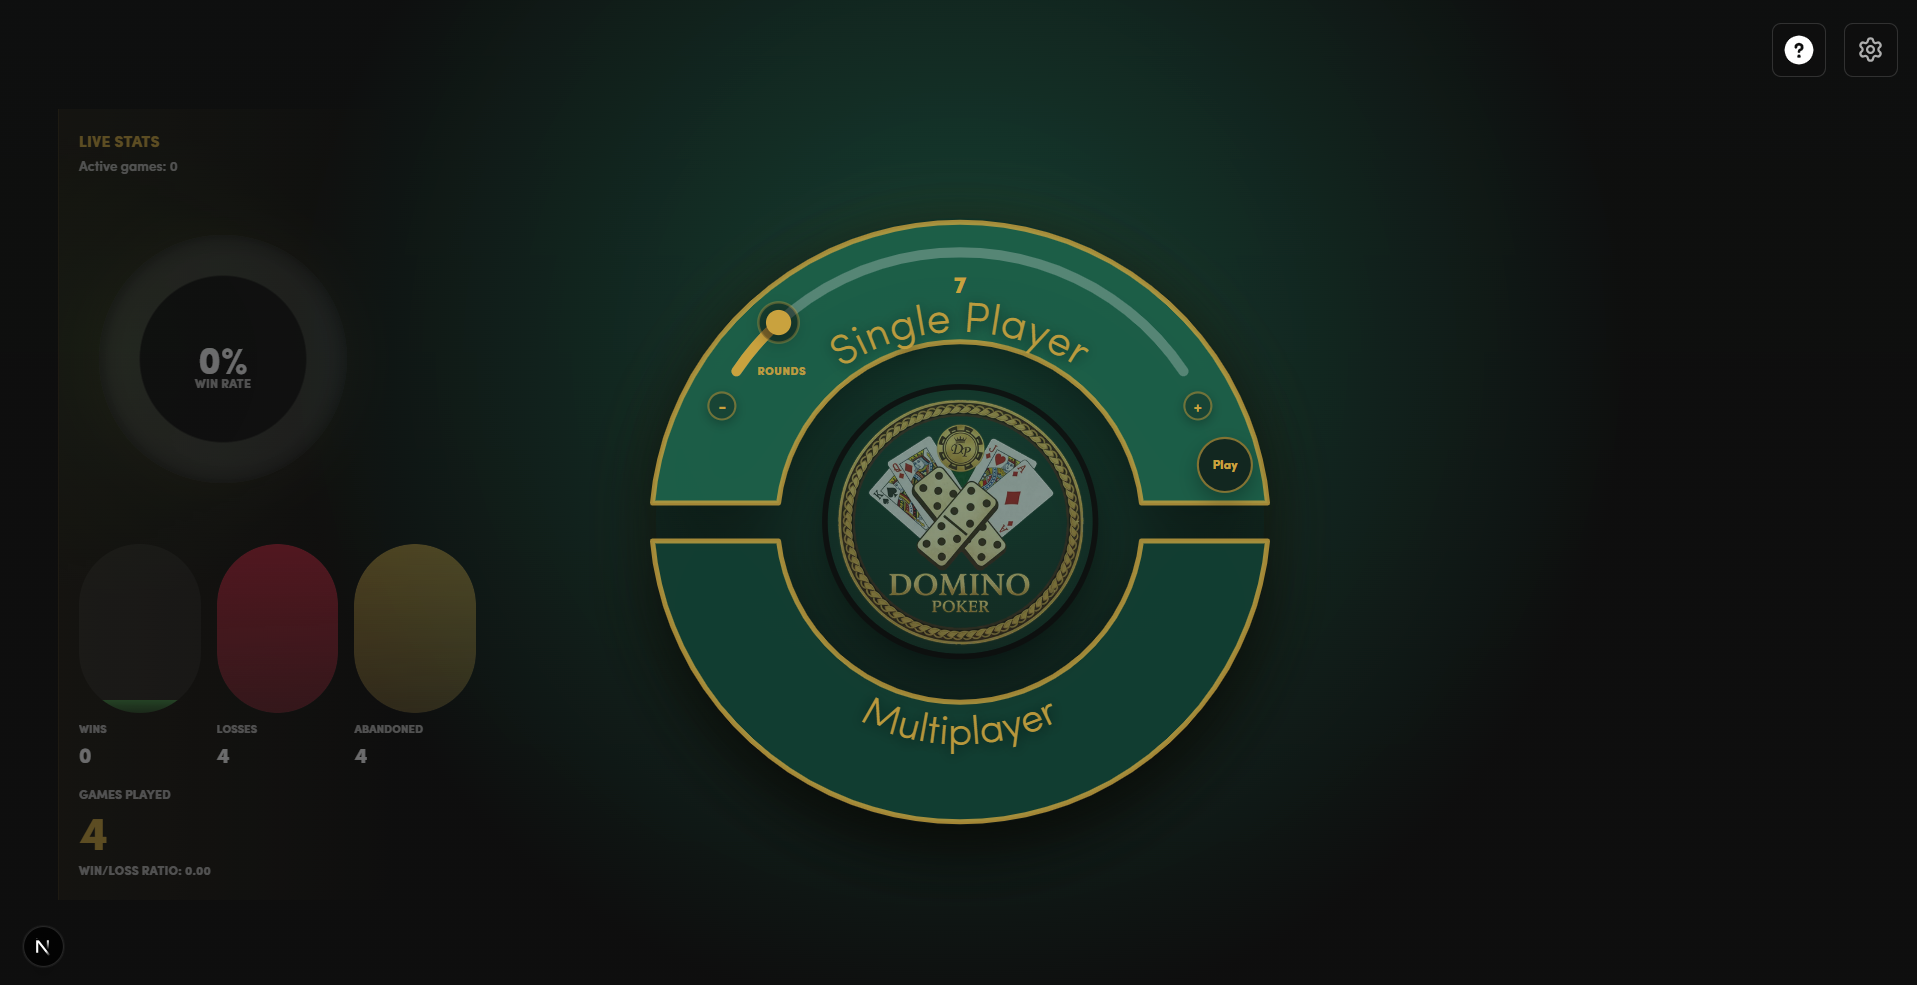
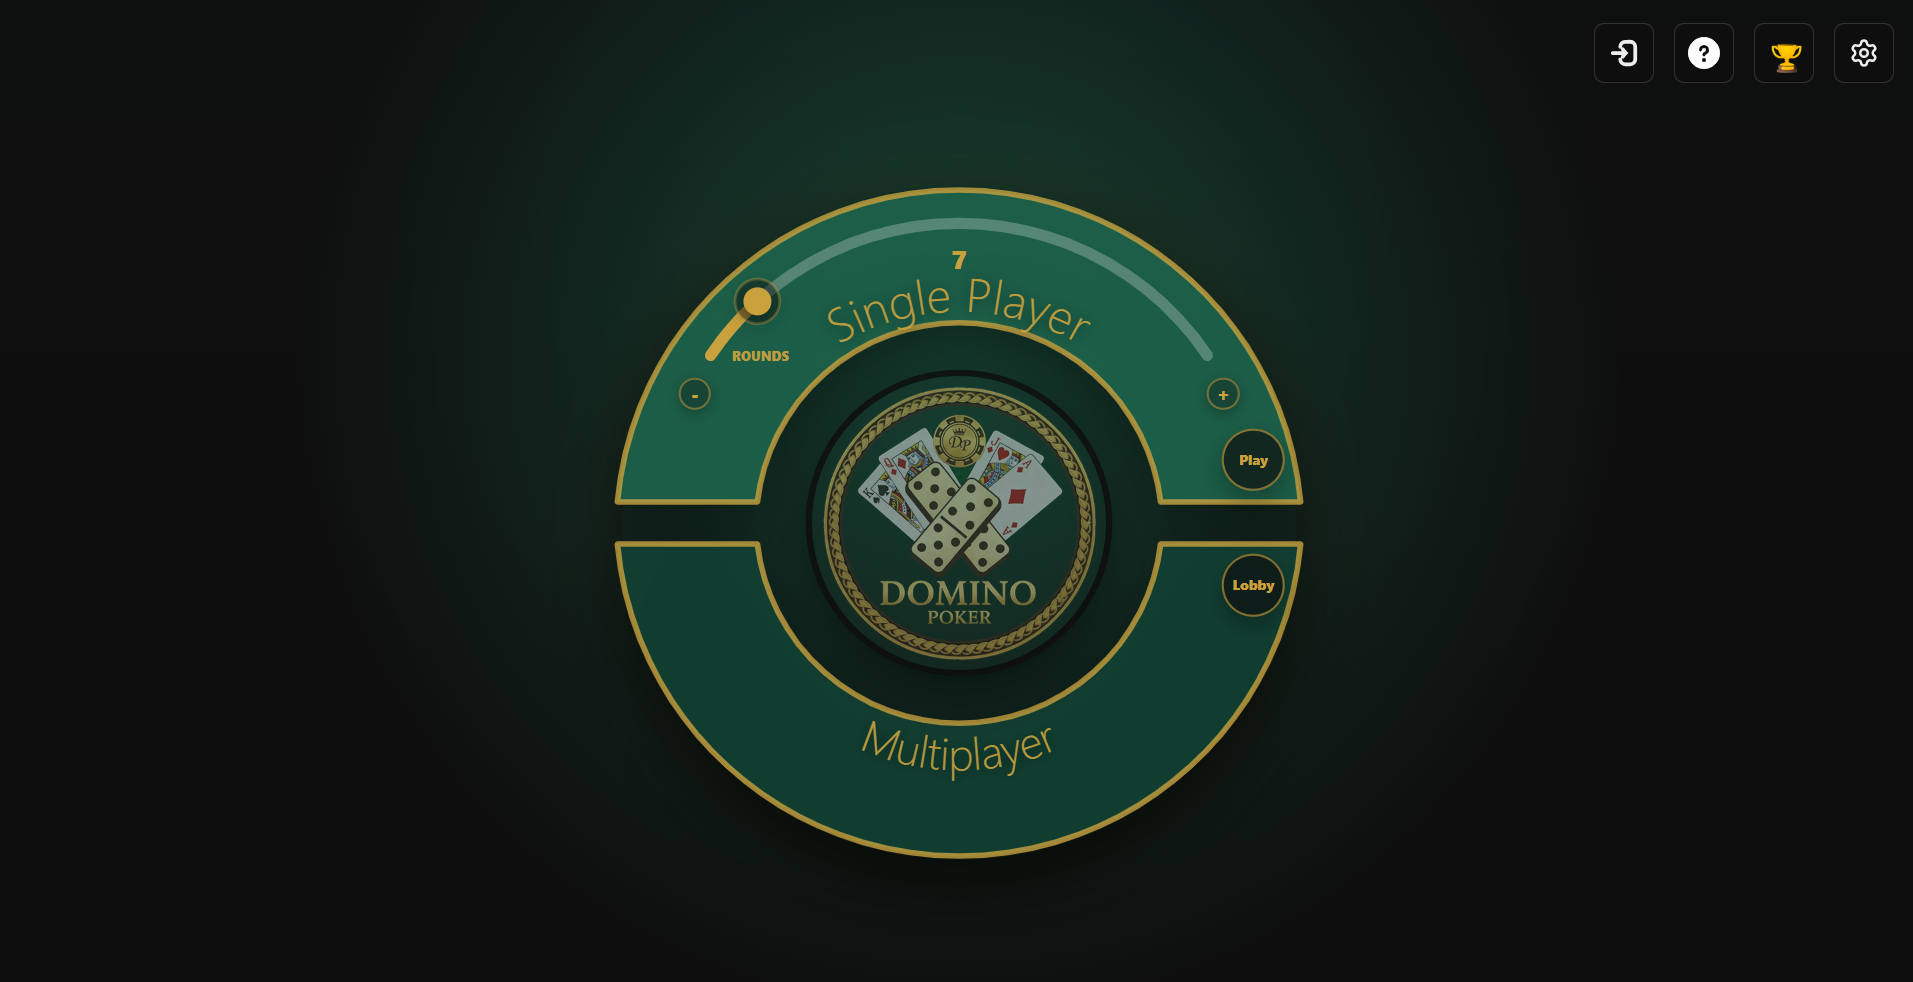
docs(readme): refresh for AI bot, accounts, leaderboard + new screenshots
- Rewrite intro/status: live game on main (SP vs trained AI, MP, accounts)
- Document single-player ISMCTS bot (3 difficulties, switchable in Settings)
  and link the standalone bot repo Domino_Poker_MAX_BOT
- Add Accounts/profiles/leaderboard section
- Replace screenshots with current dark/glass UI (desktop + mobile)
- Update tech stack (Next 16/React 19, PWA, Web Worker), repo structure
  (packages/ai_bot, deploy/), fix dev:server build order
- gitignore: ignore .agent/

diff --git a/README.md b/README.md
@@ -2,18 +2,19 @@
 
 Browser-playable **Domino Poker** built with Next.js, React, and TypeScript. The game
 started as a local single-player table (one human vs. three bots on a double-six set) and
-now also includes a complete **authoritative real-time multiplayer server** that lets up to
-four players share a room and play the same game over WebSocket.
+has grown into a full product: a **strong trained AI opponent** for offline play, an
+**authoritative real-time multiplayer server** for up to four players over WebSocket, and
+**player accounts, profiles, and a global leaderboard**. It is installable as a PWA and
+fully responsive on desktop and mobile.
 
 **▶ Play it live: [domino-poker.com](https://domino-poker.com/)**
 
 ![Domino Poker lobby](Screenshots/Lobby-screen.png)
 
-> **Branch note.** This is the **`multiplayer`** branch — a large work-in-progress update that
-> adds the multiplayer server, lobby, and persistence on top of the
-> single-player game. It runs and is playable with 4 humans (or humans + bots) and is now
-> **live at [domino-poker.com](https://domino-poker.com/)**, still being tested and refined. Contributions
-> are welcome (see [Contributing](#contributing)).
+> **Status.** This is the live `main` codebase behind
+> [domino-poker.com](https://domino-poker.com/). It is a complete, playable game (single-player
+> vs. AI, and 2–4 human multiplayer with optional bot-fill) and is still being refined.
+> Contributions are welcome (see [Contributing](#contributing)).
 
 ## Overview
 
@@ -22,11 +23,19 @@ compete across seven tricks. The goal is to score the most points by predicting 
 tricks you will win and playing your tiles according to the trump, ace, and follow-number
 rules.
 
-This repository now contains two ways to play, sharing one rules engine:
+This repository contains two ways to play, sharing one rules engine:
 
-- **Single-player** (offline, in the browser): one human vs. three bots. No server needed.
-- **Multiplayer** (local server): 2–4 humans in a room (the host can fill empty seats with
-  bots), playing in real time against an authoritative Node.js server.
+- **Single-player** (offline, in the browser): one human vs. three CPU players driven by a
+  **trained ISMCTS bot** (`packages/ai_bot`, published standalone as
+  [Domino_Poker_MAX_BOT](https://github.com/Rambo19911/Domino_Poker_MAX_BOT)) with three
+  difficulty levels — **Medium / Hard / Epic** — that you switch in **Settings**. No server
+  needed; the bot runs off-thread in a Web Worker.
+- **Multiplayer** (Node server): 2–4 humans in a room (the host can fill empty seats with
+  bots), playing in real time against an authoritative server. Optional **accounts** add a
+  persistent profile, win/loss stats, and a global leaderboard.
+
+> **Bot difficulty** is configurable: open **Settings** and pick **Medium**, **Hard**, or
+> **Epic** to set how strong the single-player CPU opponents play.
 
 ## What's in this update (multiplayer)
 
@@ -57,13 +66,47 @@ single-player rules. Highlights:
   server is hardened against broadcast-fanout overload (debounce + backpressure + single-pass
   serialization).
 
-The single-player game is unchanged and still works fully offline.
+The single-player game still works fully offline; its CPU seats are now powered by the trained
+bot rather than the original heuristics.
+
+## Accounts, profiles & leaderboard
+
+Play is anonymous by default — single-player and multiplayer both work with no account. On top
+of that, an **optional account layer** adds:
+
+- **Register / log in** with a username and password, plus **email-based password reset**.
+- A **player profile**: avatar, title (e.g. *Champion*), and lifetime stats — wins, losses,
+  games played, and win rate.
+- A **global leaderboard** ranking the top players by win rate.
+
+Accounts are additive: the server stays authoritative, and anonymous play keeps working
+exactly as before.
 
 ## Screenshots
 
-| Game room | Settings | Game rules |
+**Main menu — desktop & mobile**
+
+| Desktop | Mobile |
+| --- | --- |
+| <img src="Screenshots/menu-desktop.png" alt="Domino Poker desktop main menu" width="100%"> | <img src="Screenshots/menu-mobile.png" alt="Domino Poker mobile main menu" width="55%"> |
+
+**Accounts & leaderboard**
+
+| Log in / register | Leaderboard | Player profile |
 | --- | --- | --- |
-| <img src="Screenshots/playing-room-screen.png" alt="Domino Poker game room" width="100%"> | <img src="Screenshots/settings-screen.png" alt="Domino Poker settings" width="100%"> | <img src="Screenshots/gamerules-screen.png" alt="Domino Poker rules dialog" width="100%"> |
+| <img src="Screenshots/auth-login.png" alt="Log in and register dialog" width="100%"> | <img src="Screenshots/leaderboard-desktop.png" alt="Leaderboard ranked by win rate" width="100%"> | <img src="Screenshots/profile-card.png" alt="Player profile with stats" width="100%"> |
+
+**Multiplayer lobby & rooms**
+
+| Lobby (desktop) | Create room | Lobby (mobile) |
+| --- | --- | --- |
+| <img src="Screenshots/lobby-desktop.png" alt="Multiplayer lobby" width="100%"> | <img src="Screenshots/create-room.png" alt="Create room dialog" width="100%"> | <img src="Screenshots/lobby-mobile.png" alt="Multiplayer lobby on mobile" width="60%"> |
+
+**Single-player table**
+
+| Game in progress (mobile) | Settings | Game rules |
+| --- | --- | --- |
+| <img src="Screenshots/singleplayer-table-mobile.png" alt="Single-player table with AI opponents" width="60%"> | <img src="Screenshots/settings-screen.png" alt="Domino Poker settings" width="100%"> | <img src="Screenshots/gamerules-screen.png" alt="Domino Poker rules dialog" width="100%"> |
 
 ## How multiplayer works (architecture)
 
@@ -121,10 +164,11 @@ is deterministic and reproducible from the match seed — the shuffle "feel" is 
 
 ## Tech stack
 
-- **Next.js App Router** + **React** for the web client.
+- **Next.js App Router 16** + **React 19** for the web client, served as an installable **PWA**.
 - **Node.js** authoritative server using the **`ws`** library, built-in **`node:sqlite`**, and
   optional **PostgreSQL** via `pg`.
-- **TypeScript** across the web app, server, rules engine, and tools.
+- **TypeScript** across the web app, server, rules engine, AI bot, and tools.
+- **Web Worker** to run the single-player ISMCTS bot off the main thread.
 - **npm workspaces** for the monorepo.
 - **Vitest** for core, server, shared, and tool tests; **Playwright** for web e2e.
 - **Zod** for protocol message validation.
@@ -132,12 +176,15 @@ is deterministic and reproducible from the match seed — the shuffle "feel" is 
 ## Repository structure
 
 ```text
-apps/web         Next.js web app: single-player game + multiplayer lobby/table UI
-apps/server      Authoritative multiplayer server (gateway, rooms, timers, storage, chat)
+apps/web         Next.js web app: single-player game, multiplayer lobby/table UI, auth/profile, PWA
+apps/server      Authoritative multiplayer server (gateway, rooms, timers, storage, chat, auth)
 packages/core    Pure TypeScript rules, scoring, state, AI — incl. the `multiplayer/` zone
 packages/shared  Protocol contracts (client/server messages, room DTOs) — single source
+packages/ai_bot  Trained single-player bot (ISMCTS); `engine` + `ai` consumed by apps/web
+                 (standalone repo: github.com/Rambo19911/Domino_Poker_MAX_BOT)
 tools/simulators Headless full-game simulator (determinism + invariant stress tests)
 tools/load-test  Local WebSocket load generator (npm run load:local)
+deploy           Deployment examples (Dockerfile, systemd, nginx, Caddy, backups)
 docs             Rules, scoring examples, and design notes
 Screenshots      Public README screenshots
 ```
@@ -169,7 +216,7 @@ Open the local URL printed by Next.js. Choose **Play** for the single-player tab
 Open two terminals from the repo root:
 
 ```bash
-# Terminal 1 — authoritative server (builds core + server, then runs on port 4000)
+# Terminal 1 — authoritative server (builds core → shared → server, then runs on port 4000)
 npm run dev:server
 
 # Terminal 2 — web client
@@ -189,7 +236,7 @@ one normal window + one incognito per browser, so each gets its own identity), g
 
 ```bash
 npm run dev          # Web app (single-player + multiplayer UI) in dev mode
-npm run dev:server   # Build core + server and run the authoritative MP server
+npm run dev:server   # Build core → shared → server and run the authoritative MP server
 npm run build        # Build all workspaces
 npm run test         # Run unit tests across workspaces (core, server, shared, tools)
 npm run typecheck    # TypeScript checks for all workspaces
@@ -249,12 +296,14 @@ a fresh lockfile-based state.
 
 ## Project status
 
-**Working locally:** single-player; multiplayer lobby, rooms, bot-fill, real-time play, server
-turn timers + timeout auto-play, reconnect, chat, SQLite/PostgreSQL persistence, and a basic load test.
+**Working:** single-player vs. trained AI (3 difficulties); multiplayer lobby, rooms, bot-fill,
+real-time play, server turn timers + timeout auto-play, reconnect, lobby chat,
+SQLite/PostgreSQL persistence, a basic load test; optional accounts with profiles, stats, and a
+global leaderboard; email-based password reset; installable PWA and responsive desktop/mobile UI.
 
-**Not done yet / intentionally deferred (post-MVP):** real-money or ranked play; tournaments;
-spectator mode; full horizontal scaling with active room failover; persistent cross-session
-player identity / accounts; in-room chat; moderation.
+**Not done yet / intentionally deferred (post-MVP):** real-money play; ranked matchmaking;
+tournaments; spectator mode; full horizontal scaling with active room failover; in-room (table)
+chat; moderation; AI bots in multiplayer (the server still uses the lightweight heuristic bot).
 
 ## Contributing
 